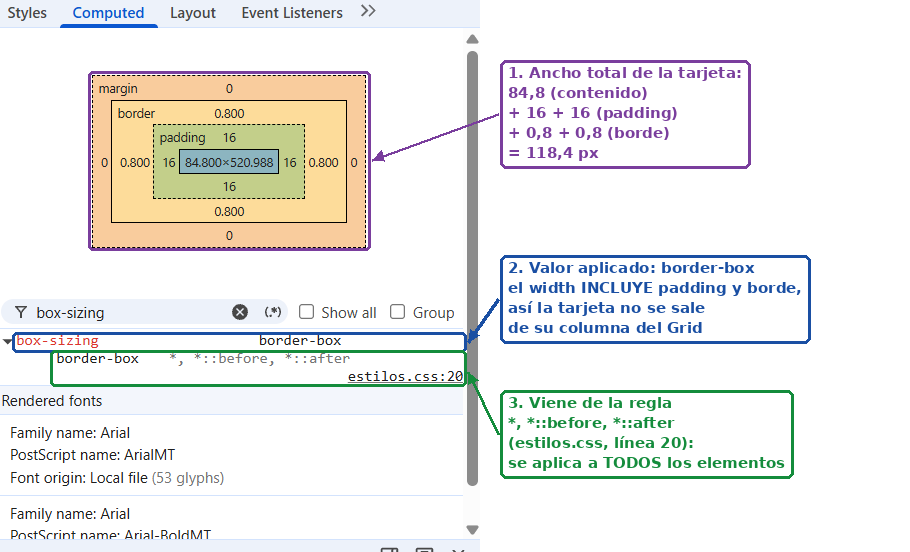
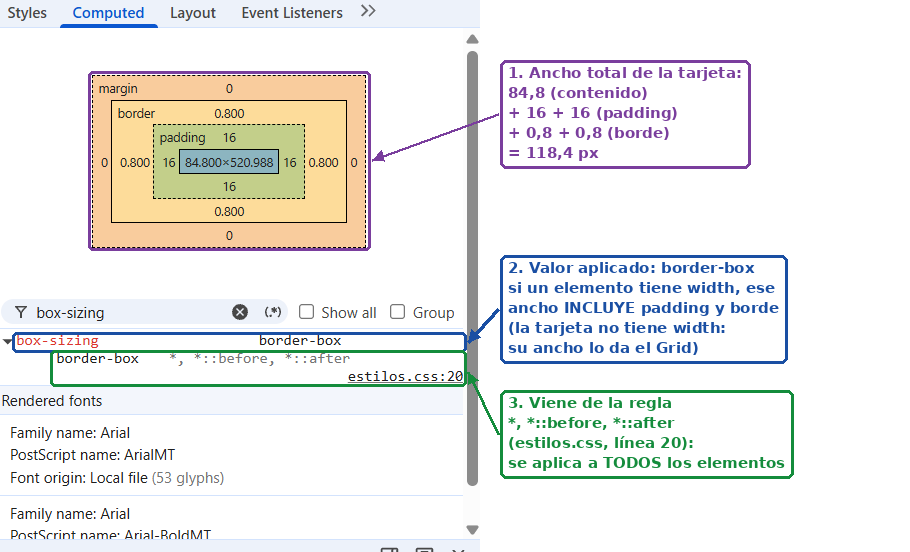
Corrige la explicación de box-sizing en la comprobación de DevTools

Changed region(s): [[0.5231, 0.462, 0.8923, 0.6775]]

diff --git a/docs/comprobaciones-devtools.md b/docs/comprobaciones-devtools.md
@@ -4,7 +4,6 @@ Comprobaciones realizadas en Google Chrome sobre la web publicada en GitHub Page
 
 ## 1. Regla sobrescrita (cascada)
 
-
 **Elemento:** botón «Ver mi carrito» de la página de inicio (`<a class="boton boton-secundario">`).
 
 ![Panel Styles: la regla .boton aparece tachada](devtools/01-cascada-estilos.png)
@@ -22,8 +21,6 @@ También aparece tachado `color` en la regla `a`: pierde porque un selector de c
 
 **Conclusión:** la variante `.boton-secundario` reutiliza todos los estilos de `.boton` (tamaño, borde, tipografía) y solo sobrescribe el fondo y el color del texto.
 
-
-
 ## 2. Modelo de caja de un componente
 
 **Elemento:** tarjeta de producto del catálogo (`<article class="tarjeta">`, proteína vegana).
@@ -33,7 +30,7 @@ También aparece tachado `color` en la regla `a`: pierde porque un selector de c
 - **Padding:** 16 px por cada lado (`padding: 1rem`).
 - **Border:** 1 px en el CSS. DevTools muestra 0,8 px porque el escalado de pantalla de Windows está al 125 % y el navegador redondea el borde a píxeles reales.
 - **Margin:** 0. La separación entre tarjetas la hace el `gap` del Grid, no el margen.
-- **box-sizing: border-box**, aplicado a todos los elementos con la regla `*, *::before, *::after` (línea 20). El ancho de la tarjeta incluye el padding y el borde, así que la tarjeta siempre ocupa exactamente su columna del Grid y no se sale de ella.
+- **box-sizing: border-box**, aplicado a todos los elementos con la regla `*, *::before, *::after` (línea 20). Hace que, cuando un elemento tiene un ancho fijado (`width`), ese ancho incluya el padding y el borde. La tarjeta no tiene `width`: su ancho lo da la columna del Grid (118,4 px = 84,8 de contenido + 32 de padding + 1,6 de borde). Donde sí se nota es, por ejemplo, en el `select` de los filtros (`width: 100%`, con padding y borde): sin `border-box` mediría el 100 % más 28 px y se saldría de la caja de filtros.
 
 ![Modelo de caja y box-sizing de la tarjeta](devtools/02-caja-box-sizing.png)
 
